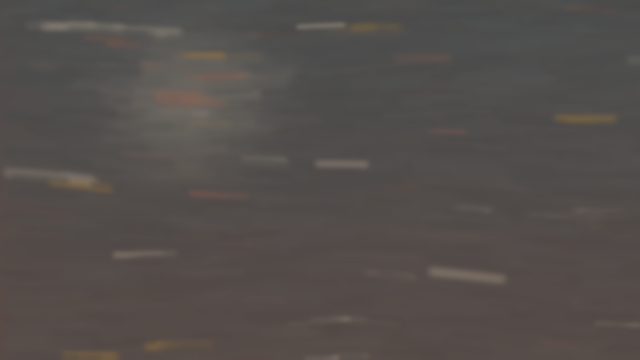
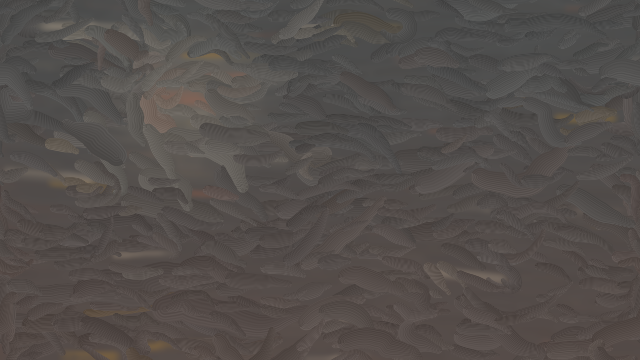
BrushStyle step 7: re-traced small menu covers
- paint.py --base accepts rectangular images (mirror-padded to a square,
  painted, cropped back) and keeps their alpha
- the six 640x360 cover variants get Van Gogh brushwork; the loading
  screen and menu background keep their existing strokes (re-tracing
  them lost detail)

diff --git a/Tools/brushstyle/paint.py b/Tools/brushstyle/paint.py
@@ -119,7 +119,7 @@ def load_base(path, n):
     """Textura del usuario en Lab: original, suavizada (color de los trazos), muy suavizada (zonas que el trazo no
     cruza) y direccion de sus propios trazos (structure tensor del analizador, en angulo doble porque es axial)."""
     import analyze as A
-    im = Image.open(path).convert("RGB").resize((n, n), Image.LANCZOS)
+    im = (path if isinstance(path, Image.Image) else Image.open(path)).convert("RGB").resize((n, n), Image.LANCZOS)
     rgb = np.asarray(im)
     orig = cv2.cvtColor(rgb.astype(np.float32) / 255, cv2.COLOR_RGB2Lab)
     def wrap_blur(img, sigma):   # OpenCV no acepta BORDER_WRAP en GaussianBlur: se rodea con copia envuelta
@@ -544,13 +544,25 @@ def main():
     args = ap.parse_args()
     style, g = load_style(args.theme)
     rng = np.random.default_rng(args.seed)
-    base = None
+    base, rect = None, None
     if args.base:
-        w, h = Image.open(args.base).size
+        src = Image.open(args.base)
+        w, h = src.size
         if w != h:
-            sys.exit(f"--base necesita una textura cuadrada (es {w}x{h})")
-        n = args.size or w
-        base = load_base(args.base, n)
+            # imagen rectangular (UI, pantallas de carga): se rellena en espejo hasta un cuadrado, se pinta y se recorta.
+            # Las costuras del envoltorio quedan en el relleno; el alfa original se conserva.
+            if args.size or args.islands:
+                sys.exit("--base rectangular no admite --size ni --islands")
+            n = max(w, h)
+            oy, ox = (n - h) // 2, (n - w) // 2
+            rgb = np.asarray(src.convert("RGB"))
+            sq = np.pad(rgb, ((oy, n - h - oy), (ox, n - w - ox), (0, 0)), mode="reflect")
+            rect = (ox, oy, w, h, src.convert("RGBA").getchannel("A"))
+            base = load_base(Image.fromarray(sq), n)
+            args.no_compare = True
+        else:
+            n = args.size or w
+            base = load_base(args.base, n)
         if args.match > 0:
             match_original(g, base, args.match)
         name = os.path.splitext(os.path.basename(args.base))[0]
@@ -574,6 +586,13 @@ def main():
         canvas = pad_islands(canvas, islands > 0, args.margin)
         height = pad_islands(height, islands > 0, args.margin)
     os.makedirs(out, exist_ok=True)
+    if rect:   # vuelta al tamano original: solo albedo con su alfa (la UI no usa relieve)
+        ox, oy, w, h, alpha = rect
+        albedo = Image.fromarray(lab_to_rgb8(canvas[oy:oy + h, ox:ox + w])).convert("RGBA")
+        albedo.putalpha(alpha)
+        albedo.save(os.path.join(out, f"T_{name}_Albedo.png"))
+        print(f"{len(strokes)} trazos -> {out} ({w}x{h})")
+        return
     albedo = Image.fromarray(lab_to_rgb8(canvas))
     albedo.save(os.path.join(out, f"T_{name}_Albedo.png"))
     h = (height - height.min()) / (np.ptp(height) + 1e-6)
